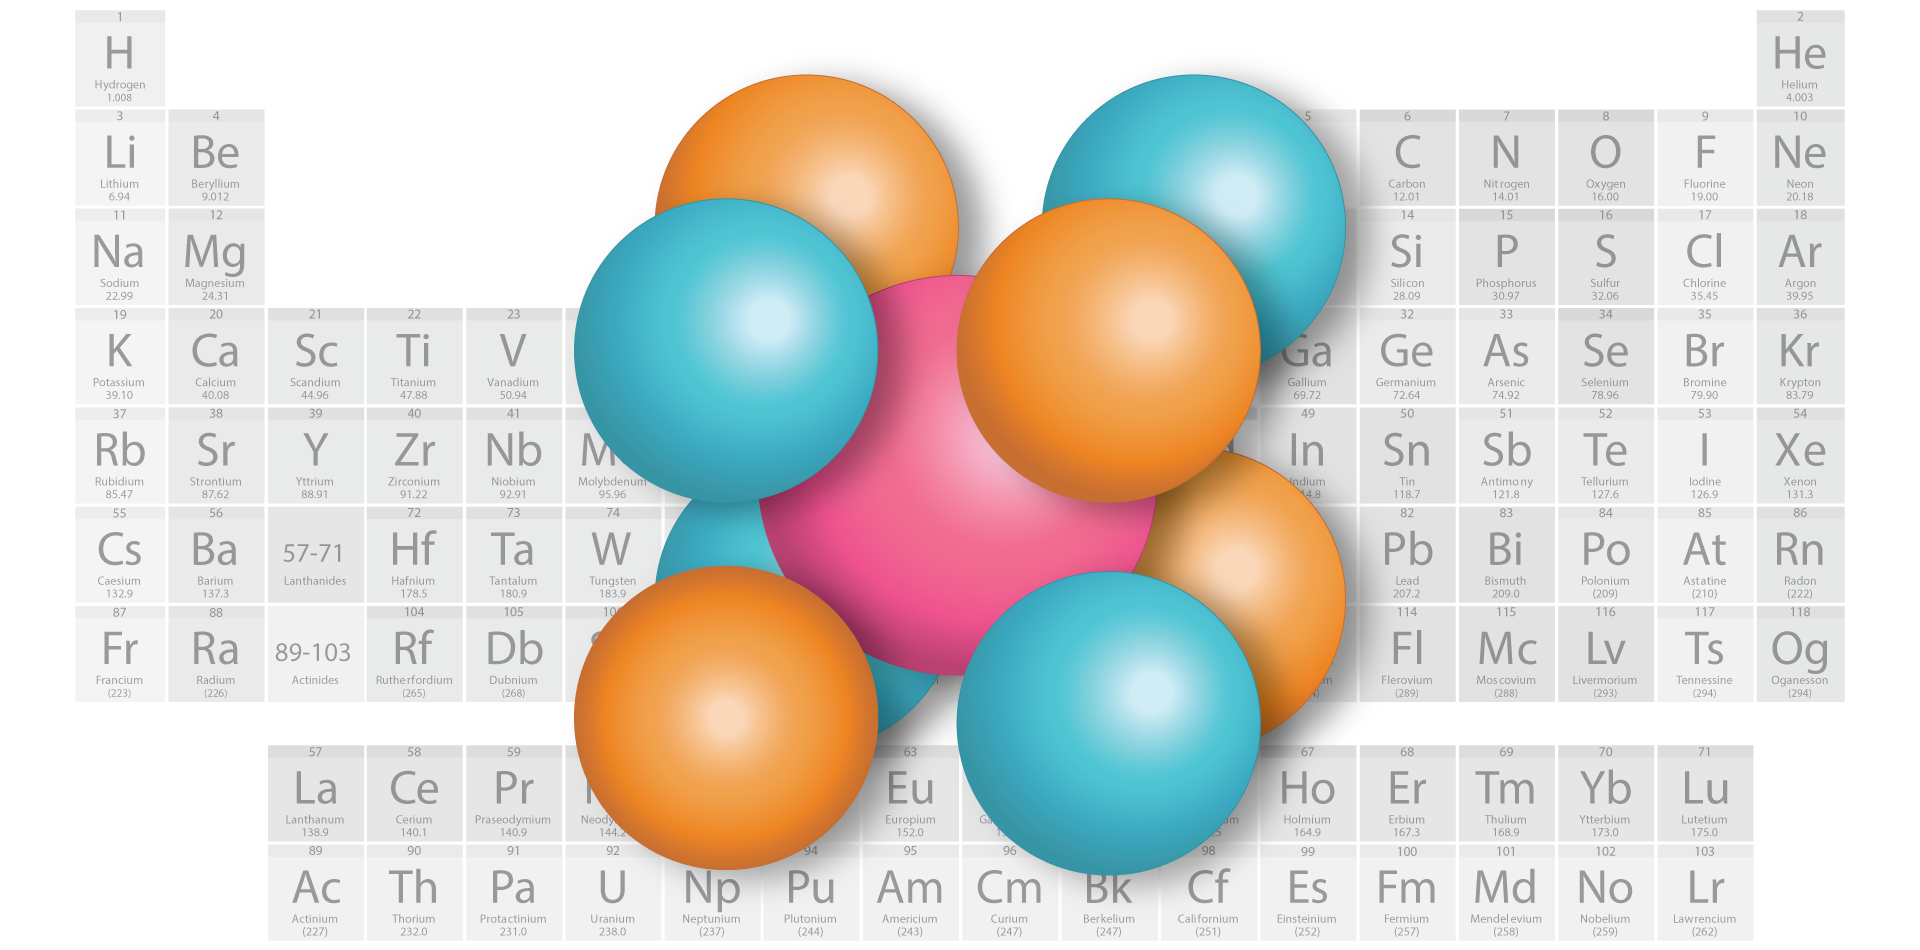
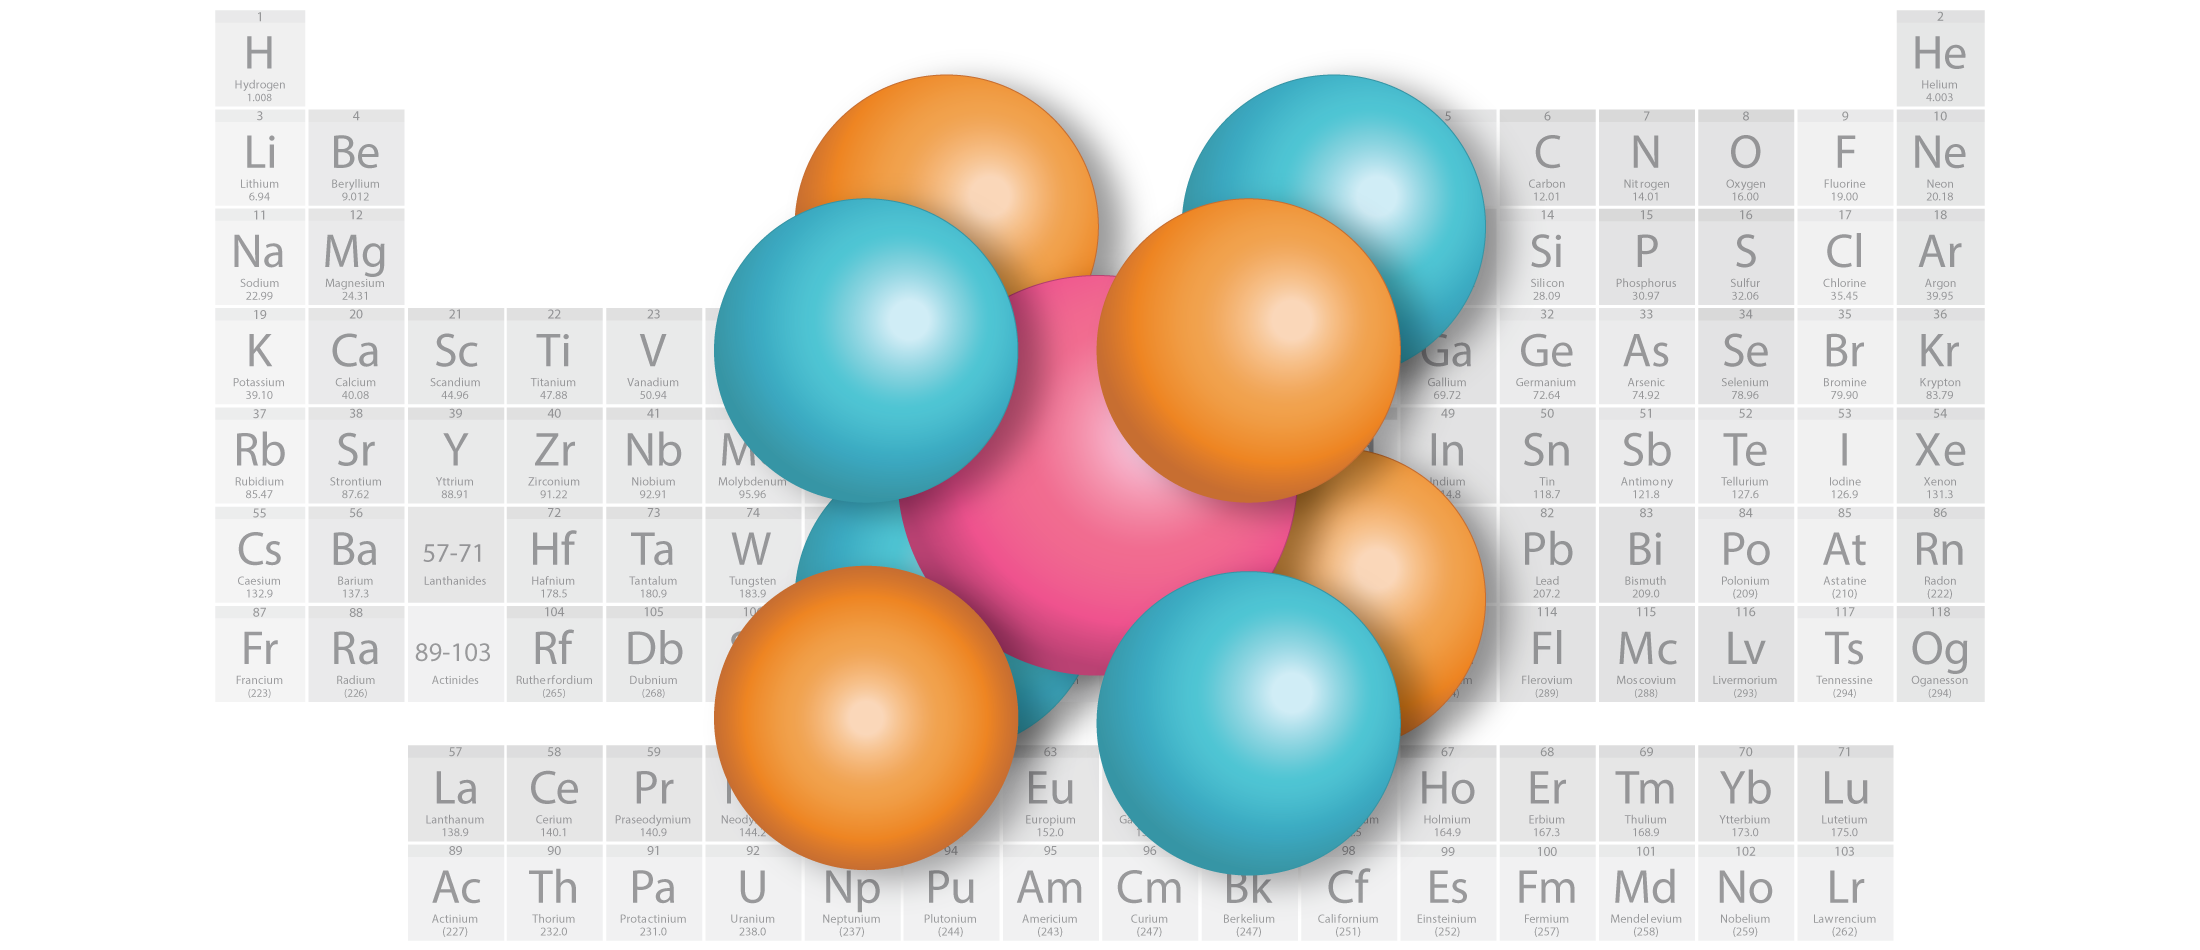
✏ improve home with down arrow

diff --git a/docs/stylesheets/custom/layout/hero.css b/docs/stylesheets/custom/layout/hero.css
@@ -1,11 +1,11 @@
 .mdx-hero {
   position: relative;
-  margin:  0 0 20px 0;
+  margin:  0 0 9em 0;
   color: var(--md-primary-bg-color);
   display: flex;
   align-items: center;
   justify-content: center;
-  min-height: 700px; /* Minimum height for the section */
+  min-height: 600px; /* Minimum height for the section */
   overflow: hidden; /* Ensures no overflow */
 }
 
@@ -28,7 +28,8 @@
   z-index: 1; /* Ensures it appears above the image */
   width: 60%; /* Ensures the image spans the full width */
 
-  min-width: 400px;
+  min-width: 350px;
+  max-width: 650px;
   text-align: center;
   color: var(--md-primary-bg-color);
   padding: 20px;
@@ -43,13 +44,13 @@
   color: var(--md-primary-bg-color);
 }
 
-
-
-.mdx-hero .md-button--primary:is(:focus, :hover) {
-  color: var(--md-primary-bg-color);
-  background-color: hsl(339, 75%, 63%);
-  border-color: hsl(339, 75%, 63%);
+.mdx-hero .md-button:is(:focus, :hover) {
+  color: hsla(0, 0%, 0%, 0.70);
+  background-color: hsla(0, 0%, 100%, 0.70);
+  border-color: hsla(0, 0%, 100%, 0.60);
 }
+
+
 
 .mdx-hero .md-button--primary {
   color: var(--md-primary-bg-color);
@@ -57,6 +58,12 @@
   border-color: hsl(339, 79%, 55%);
 }
 
+
+.mdx-hero .md-button--primary:is(:focus, :hover) {
+  color: var(--md-primary-bg-color);
+  background-color: hsl(339, 75%, 63%);
+  border-color: hsl(339, 75%, 63%);
+}
 
 .mdx-hero__image img {
   top: 0;

diff --git a/docs/stylesheets/custom/tooltipster/tippy.css b/docs/stylesheets/custom/tooltipster/tippy.css
@@ -5,38 +5,38 @@
 }
 
 .tippy h1{
-    font-size: 0.90rem;  /* Default size */
-    line-height: 1.3; /* Reduced line height */
-    margin: 0 0 0.9em;
-}
-
-.tippy h2{
     font-size: 0.85rem;  /* Default size */
     line-height: 1.3; /* Reduced line height */
     margin: 0 0 0.9em;
 }
 
-.tippy h3{
+.tippy h2{
     font-size: 0.80rem;  /* Default size */
     line-height: 1.3; /* Reduced line height */
     margin: 0 0 0.9em;
 }
 
-.tippy h4{
+.tippy h3{
     font-size: 0.75rem;  /* Default size */
     line-height: 1.3; /* Reduced line height */
     margin: 0 0 0.9em;
 }
 
+.tippy h4{
+    font-size: 0.70rem;  /* Default size */
+    line-height: 1.3; /* Reduced line height */
+    margin: 0 0 0.9em;
+}
+
 .tippy p{
-    font-size: 0.7rem;  /* Default size */
+    font-size: 0.65rem;  /* Default size */
     line-height: 1.3; /* Reduced line height */
     margin-block-start: 0.75em;
     margin-block-end: 0.75em;
 }
 
 .tippy div{
-    font-size: 0.7rem;
+    font-size: 0.65rem;
     line-height: 1.3; /* Reduced line height */
     margin-block-start: 0.75em;
     margin-block-end: 0.75em;

diff --git a/docs/javascripts/down_arrow.js b/docs/javascripts/down_arrow.js
@@ -1,0 +1,23 @@
+// document.querySelector('.down-arrow').addEventListener('click', function () {
+//     // Find the first H1 element
+//     const nextHeading = document.querySelector('h1');
+
+//     if (nextHeading) {
+//         // Calculate scroll position to align the top of the H1 with the top of the viewport
+//         // Subtract the height of any fixed headers or desired offset
+//         const headerOffset =  document.querySelector('header').offsetHeight; // Adjust this value if you have a fixed header or want some padding
+//         const scrollPosition = nextHeading.getBoundingClientRect().top + window.scrollY - headerOffset;
+
+//         window.scrollTo({
+//             top: scrollPosition,
+//             behavior: 'smooth'
+//         });
+//     }
+// });
+document.querySelector('.down-arrow').addEventListener('click', function () {
+    // Scroll exactly one full viewport height
+    window.scrollTo({
+        top: window.innerHeight,
+        behavior: 'smooth'
+    });
+});

diff --git a/docs/overrides/home.html b/docs/overrides/home.html
@@ -6,8 +6,8 @@
     <div class="md-grid md-typeset">
       <div class="mdx-hero">
         <div class="mdx-hero__image">
-            <img src="./assets/img/illustration-light.png#only-light" alt="Light Mode Illustration" width="1659" height="1200" draggable="false">
-            <img src="./assets/img/illustration-dark.png#only-dark" alt="Dark Mode Illustration" width="1659" height="1200" draggable="false">
+            <img src="./assets/img/illustration-light.png#only-light" alt="Light Mode Illustration" draggable="false">
+            <img src="./assets/img/illustration-dark.png#only-dark" alt="Dark Mode Illustration" draggable="false">
           </div>
         <div class="mdx-hero__content">
           <h1 style="font-size: 4em;">Energy-GNoME</h1>
@@ -22,7 +22,7 @@
       </div>
     </div>
   </section>
-
+  <div class="down-arrow"></div>
 
 {{ super() }}
 {% endblock %}

diff --git a/docs/stylesheets/custom/layout/down_arrow.css b/docs/stylesheets/custom/layout/down_arrow.css
@@ -1,0 +1,33 @@
+.down-arrow {
+    position: absolute;
+    top: calc(100vh - 60px);
+    left: calc(50% - 14px);
+    width: 30px;
+    height: 30px;
+    cursor: pointer;
+    animation: jumpInfinite 1.5s infinite;
+  }
+
+  .down-arrow:after {
+    content: "";
+    position: absolute;
+    top: 8px;
+    left: 8px;
+    width: 16px;
+    height: 16px;
+    border-bottom: 4px solid var(--md-default-fg-color);
+    border-right: 4px solid var(--md-default-fg-color);
+    transform: rotate(45deg);
+  }
+
+  @keyframes jumpInfinite {
+    0% {
+      transform: translateY(0);
+    }
+    50% {
+      transform: translateY(20px);
+    }
+    100% {
+      transform: translateY(0);
+    }
+  }

diff --git a/docs/index.md b/docs/index.md
@@ -12,7 +12,7 @@ title: Energy GNoME
 
 # Explore the project
 
-<div class="grid cards" style="max-width: 1150px; margin: 0 auto;" markdown>
+<div class="grid cards" style="max-width: 1000px; margin: 0 auto;" markdown>
 
 - :material-view-dashboard: __Database Dashboards__
 
